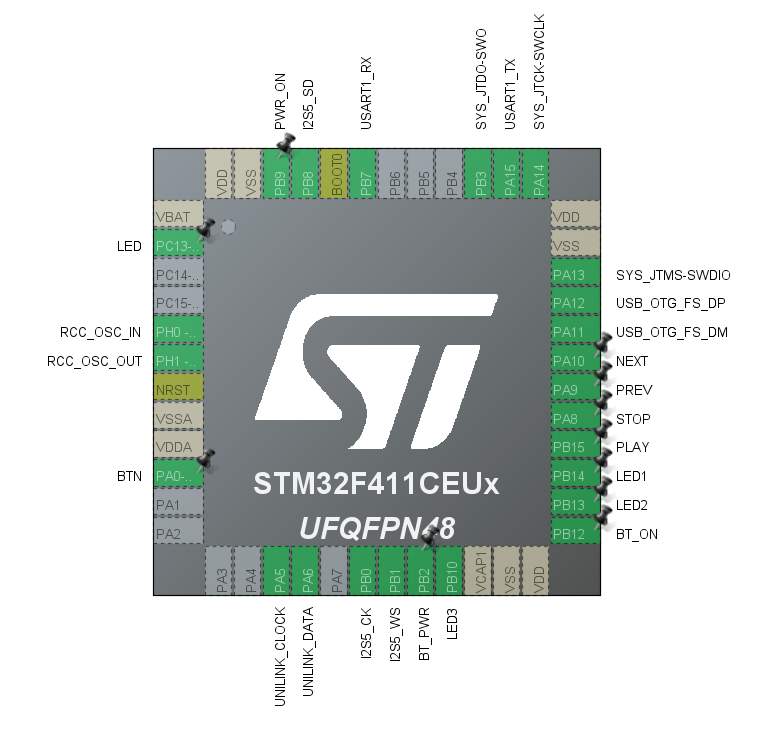
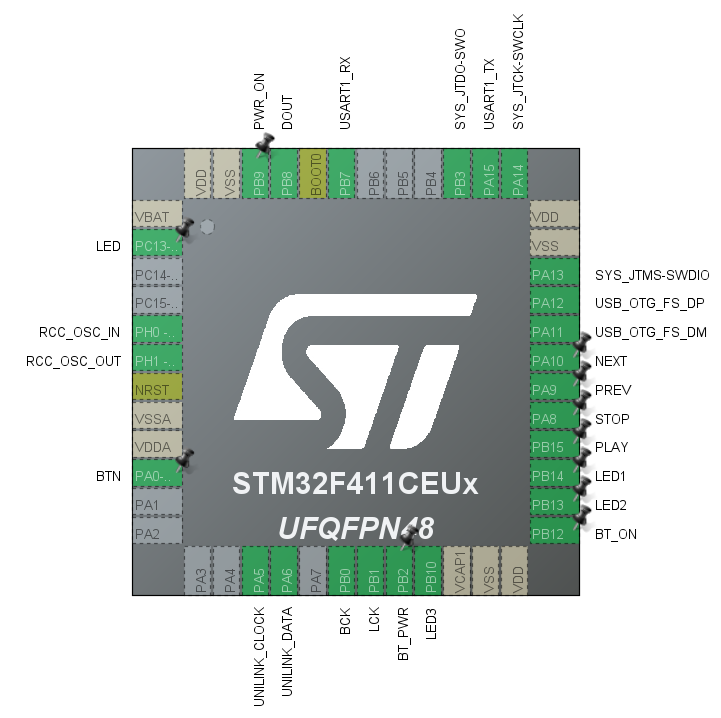
Update i2s pin names

Changed region(s): [[0.0305, 0.0306, 0.9764, 0.9805]]

diff --git a/Core/Src/stm32f4xx_hal_msp.c b/Core/Src/stm32f4xx_hal_msp.c
@@ -158,7 +158,7 @@ void HAL_I2S_MspInit(I2S_HandleTypeDef* hi2s)
     PB1     ------> I2S5_WS
     PB8     ------> I2S5_SD
     */
-    GPIO_InitStruct.Pin = GPIO_PIN_0|GPIO_PIN_1|GPIO_PIN_8;
+    GPIO_InitStruct.Pin = BCK_Pin|LCK_Pin|DOUT_Pin;
     GPIO_InitStruct.Mode = GPIO_MODE_AF_PP;
     GPIO_InitStruct.Pull = GPIO_NOPULL;
     GPIO_InitStruct.Speed = GPIO_SPEED_FREQ_LOW;
@@ -212,7 +212,7 @@ void HAL_I2S_MspDeInit(I2S_HandleTypeDef* hi2s)
     PB1     ------> I2S5_WS
     PB8     ------> I2S5_SD
     */
-    HAL_GPIO_DeInit(GPIOB, GPIO_PIN_0|GPIO_PIN_1|GPIO_PIN_8);
+    HAL_GPIO_DeInit(GPIOB, BCK_Pin|LCK_Pin|DOUT_Pin);
 
     /* I2S5 DMA DeInit */
     HAL_DMA_DeInit(hi2s->hdmatx);

diff --git a/Core/Inc/main.h b/Core/Inc/main.h
@@ -97,6 +97,10 @@ void DebugPulse(uint8_t pulses);
 #define UNILINK_CLOCK_GPIO_Port GPIOA
 #define UNILINK_DATA_Pin GPIO_PIN_6
 #define UNILINK_DATA_GPIO_Port GPIOA
+#define BCK_Pin GPIO_PIN_0
+#define BCK_GPIO_Port GPIOB
+#define LCK_Pin GPIO_PIN_1
+#define LCK_GPIO_Port GPIOB
 #define BT_PWR_Pin GPIO_PIN_2
 #define BT_PWR_GPIO_Port GPIOB
 #define LED3_Pin GPIO_PIN_10
@@ -115,6 +119,8 @@ void DebugPulse(uint8_t pulses);
 #define PREV_GPIO_Port GPIOA
 #define NEXT_Pin GPIO_PIN_10
 #define NEXT_GPIO_Port GPIOA
+#define DOUT_Pin GPIO_PIN_8
+#define DOUT_GPIO_Port GPIOB
 #define PWR_ON_Pin GPIO_PIN_9
 #define PWR_ON_GPIO_Port GPIOB
 
